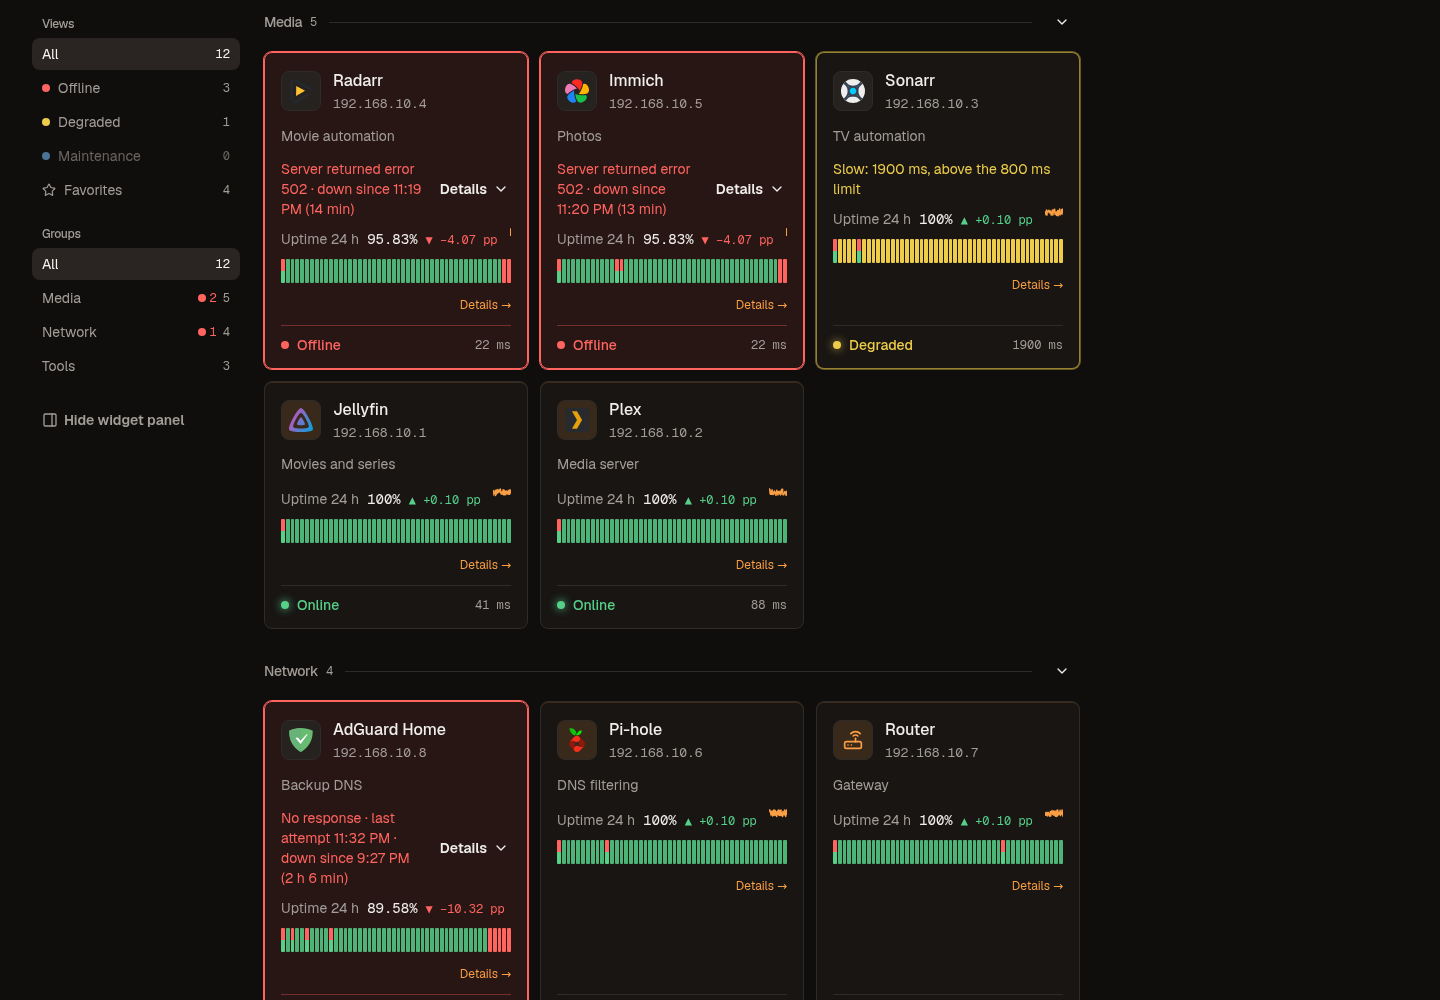
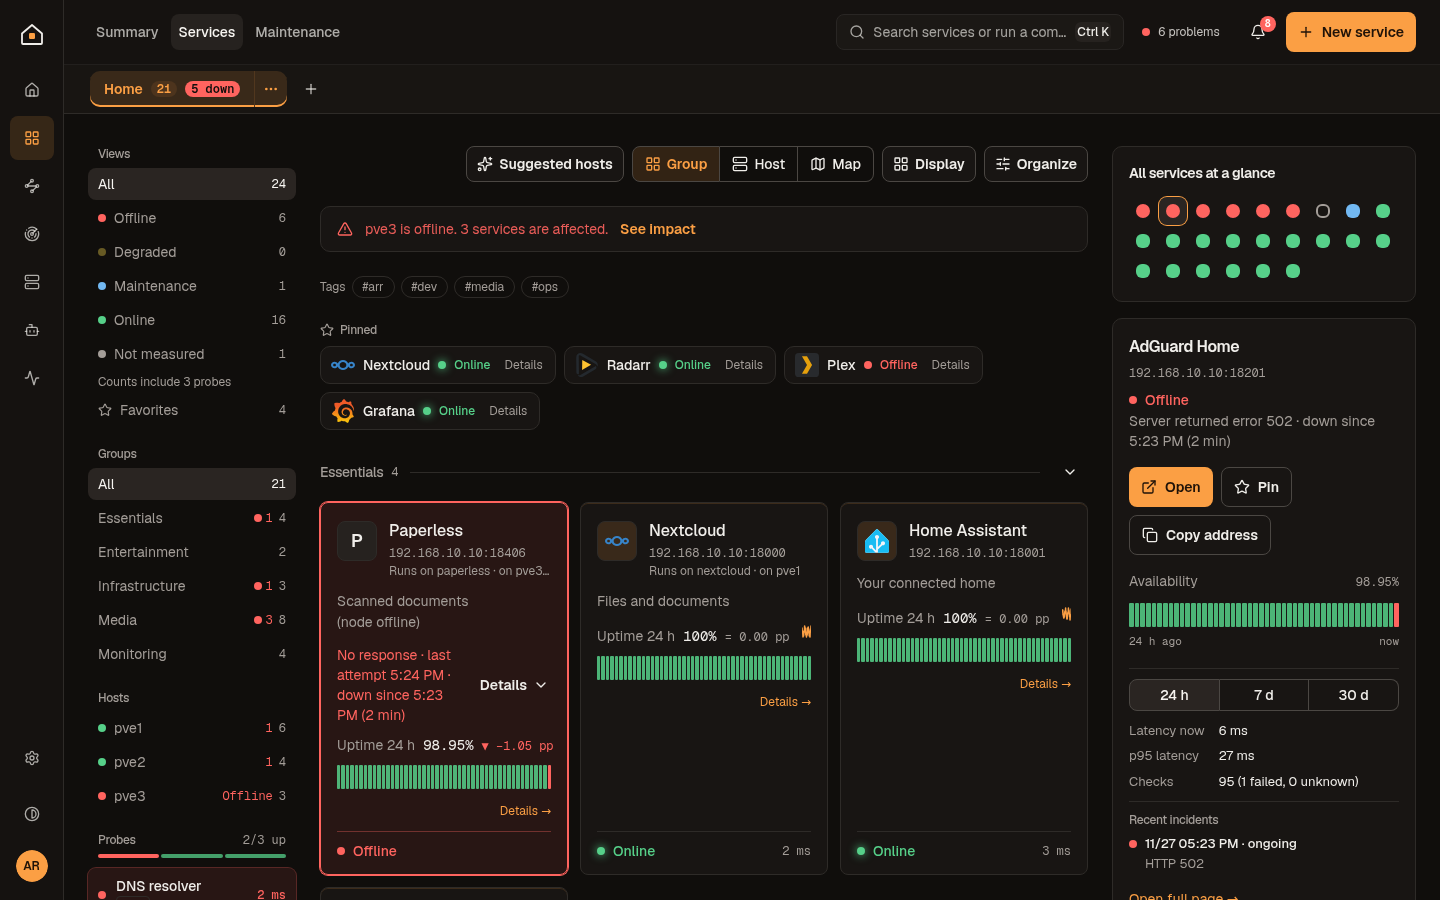
docs: refresh screenshots for the unified shell
Refs #384

diff --git a/docs/screenshots/README.md b/docs/screenshots/README.md
@@ -28,11 +28,12 @@ results and the 90-day hourly counts behind the uptime figures, heatmaps and inc
 
 | File                               | Screen                                                         |
 | ---------------------------------- | -------------------------------------------------------------- |
-| `dashboard-dark.png`               | Dashboard, dark theme (hero image)                             |
-| `dashboard-light.png`              | Dashboard, light theme                                         |
-| `dashboard-cards.png`              | Dashboard with the Cards layout                                |
+| `dashboard-dark.png`               | Home summary, dark theme (hero image)                          |
+| `dashboard-light.png`              | Services, light theme                                          |
+| `dashboard-cards.png`              | Services with the Cards layout                                 |
 | `dashboard-drawer.png`             | Details drawer of a failing service                            |
 | `command-palette.png`              | Command palette filtering with `status:down`                   |
+| `maintenance.png`                  | Maintenance view: open and scheduled windows                   |
 | `service-detail.png`               | A service's uptime, latency and incidents                      |
 | `service-form.png`                 | Service form, Appearance tab                                   |
 | `service-form-monitoring.png`      | Service form, Monitoring tab                                   |
@@ -55,7 +56,7 @@ results and the 90-day hourly counts behind the uptime figures, heatmaps and inc
 | `settings-alerts.png`              | Settings → Alerts                                              |
 | `settings-public.png`              | Settings → Public status                                       |
 | `settings-backup.png`              | Settings → Export and import                                   |
-| `mobile-dashboard.png`             | Dashboard on a phone                                           |
+| `mobile-dashboard.png`             | Home summary on phone                                          |
 | `widgets-gallery-integrations.png` | Gallery of integration widgets                                 |
 | `widgets-gallery-local.png`        | Gallery of page widgets that need no connection                |
 | `widgets-gallery-monitoring.png`   | Gallery of monitoring widgets                                  |

diff --git a/docs/pt-BR/user-guide/dashboard.md b/docs/pt-BR/user-guide/dashboard.md
@@ -32,6 +32,8 @@ Escolha um serviço e **Agendar manutenção**. As janelas aparecem como abertas
 encerradas ou canceladas. Com uma janela aberta, as verificações continuam, mas o serviço não abre incidente nem envia
 alerta.
 
+![Visão Manutenção](../../screenshots/maintenance.png)
+
 ## A pílula de saúde
 
 A pílula, no cabeçalho de todas as páginas, responde "está tudo certo?" de relance: um ponto colorido e poucas palavras (**Tudo certo**, **2 problemas**, **Monitoramento parcial**, **Sem dados** ou **Sem medição**). No celular ela se reduz ao ponto e ao número de problemas (um sinal de confirmação quando está tudo bem, um ponto de interrogação quando o estado é desconhecido). Quando o total mistura serviços fora do ar, sondas fora do ar e serviços lentos, o painel diz quantos são de cada tipo. Ao selecioná-la, abre um painel com os serviços fora do ar e há quanto tempo, a disponibilidade média, os incidentes da semana, o tempo médio de recuperação e a meta de disponibilidade, além das **causas prováveis**: o que os serviços provavelmente têm em comum (um convidado parado ou host offline do Proxmox, o mesmo erro começando em até dez minutos ou um endereço que não responde). Cada causa pode ser **reconhecida** ou **silenciada por 1 h**; isso só silencia o Homora, sem alterar verificações, incidentes ou notificações. Quando a maioria das verificações falha pelo mesmo motivo, a pílula diz **Sem medição**, e os cartões, abas e contagens afetados mostram **Sem medição** em vez de fora do ar.

diff --git a/docs/user-guide/dashboard.md b/docs/user-guide/dashboard.md
@@ -46,6 +46,8 @@ Choose a service and press **Schedule maintenance**. Windows are listed under **
 can end or cancel them. While a window is open, checks keep running but the service opens no incident and sends no
 alert.
 
+![The Maintenance view](../screenshots/maintenance.png)
+
 ## The health pill
 
 The health pill, in the header of every page, answers "is everything fine?": a colored dot and a few words (**All up**, **2 problems**, **Partly
@@ -168,7 +170,7 @@ and in the details panel. When nothing is wrong, the map says so.
 Select a tile to open the details on the right (a sheet at the bottom on narrow windows). For a failing service the
 panel opens with **Needs attention**: the reason of the last check, how long it has been down and why (host offline,
 guest stopped, service not responding). It also shows uptime, where it runs, **Reached through** (the chain of
-dependencies in front of it) and read-only actions: **Open service**, **Open card on Home**, **Change host** and
+dependencies in front of it) and read-only actions: **Open service**, **Open card in Services**, **Change host** and
 **See uptime and incidents**. Selecting a guest shows its load and its services.
 
 #### Services without a host
